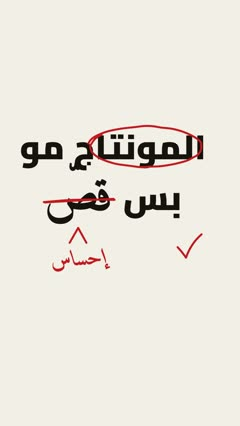
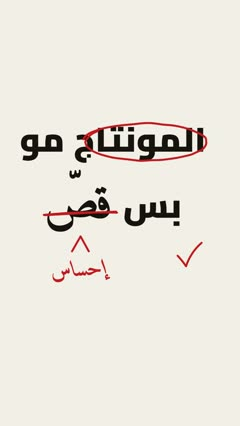
Editorial type: room above words with harakat so a shadda never touches the line above

Changed region(s): [[0.175, 0.2746, 0.875, 0.6714], [0.0875, 0.3052, 0.2625, 0.3967], [0.7292, 0.5493, 0.8458, 0.6408]]

diff --git a/engine/src/runtime/primitives/editorial.ts b/engine/src/runtime/primitives/editorial.ts
@@ -53,6 +53,8 @@ export const editorialType: Primitive<EditorialTypeParams> = {
         ? { fontFamily: FONT_SERIF, fontStyle: 'italic', fontWeight: '700', fontSize: `${f3(px * 1.4)}px`, lineHeight: '1.05' }
         : { fontFamily: ctx.look.fontDisplay, fontStyle: 'normal', fontWeight: '900', fontSize: `${f3(px)}px`, lineHeight: '1.3' })
       el.style.color = accent ? accentVar : fg
+      // Harakat (a shadda, a fatha…) sit above the line box: give the word room so they never touch the line above.
+      if (/[ً-ْٰ]/.test(el.textContent ?? '')) el.style.paddingTop = serif ? '0.32em' : '0.22em'
       el.style.gridArea = '1 / 1'
       el.style.justifySelf = 'center'
       el.style.willChange = 'filter, transform, opacity'
